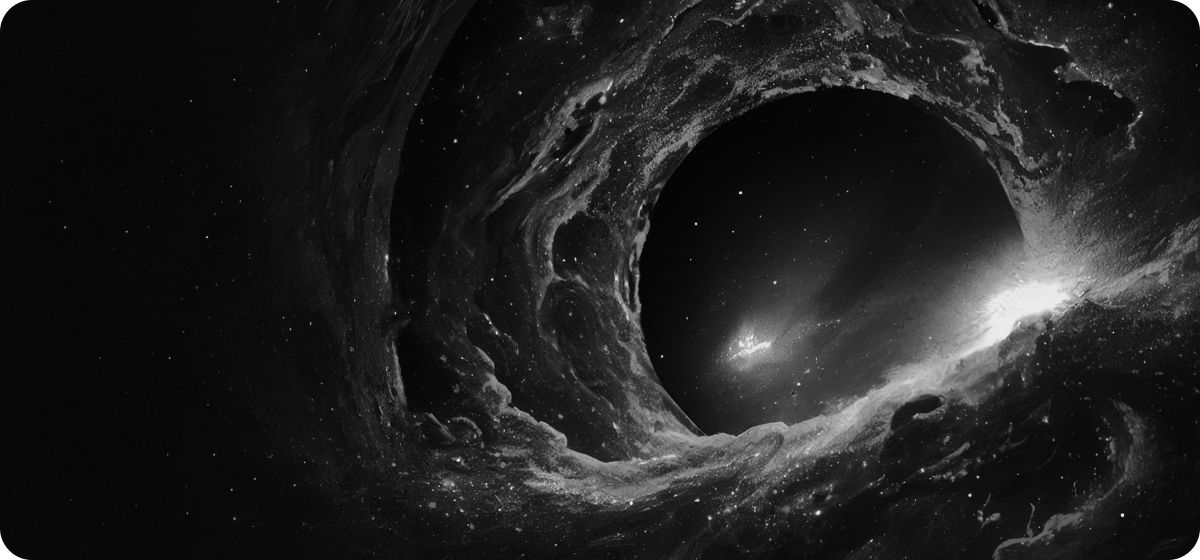
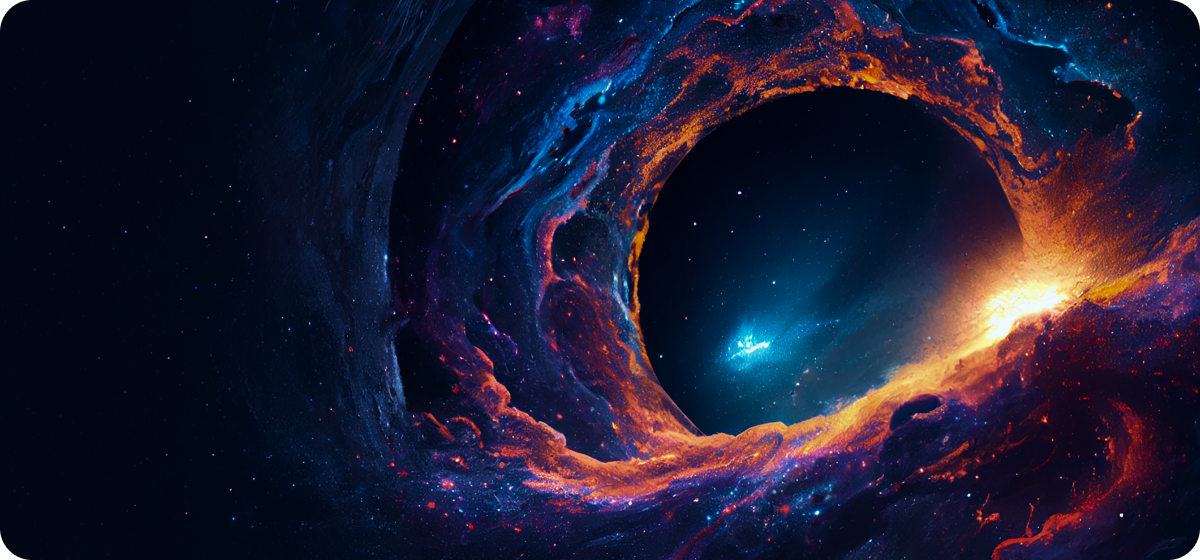
new commit

diff --git a/components/shared/HexasphereSection.tsx b/components/shared/HexasphereSection.tsx
@@ -1,73 +1,46 @@
-// import Image from "next/image";
-
-// const HexasphereSection = () => {
-//   return (
-//     <section className="min-h-screen p-4 sm:p-10 flex flex-col items-center lg:flex-row lg:justify-center gap-10 lg:gap-16">
-//       <div className="">
-//         <Image
-//           className="h-80 w-80 md:w-96 md:h-96 lg:w-96 lg:h-96 object-contain"
-//           src={"/images/hexasphere.svg"}
-//           alt="visual"
-//           width={500}
-//           height={500}
-//           loading="lazy"
-//         />
-//       </div>
-//       <div className="max-w-sm ">
-//         <h2>
-//           The <br /> Birble <br /> Hexasphere
-//         </h2>
-//         <p className="text-gray-400">
-//           Birble AI is committed to fostering the next generation of blockchain innovators. We're
-//           actively training new developers and student interns, empowering them with the skills
-//         </p>
-//       </div>
-//     </section>
-//   );
-// };
-
-// export default HexasphereSection;
-
 "use client";
+
 import React from "react";
 import { SparklesCore } from "../ui/sparkles";
 import Image from "next/image";
+import EcosystemCarousel from "./EcosystemCarousel";
 
 export default function SparklesPreview() {
   return (
-    <div className="relative p-4 sm:p-10 flex flex-col items-center lg:flex-row lg:min-h-screen lg:justify-center gap-6 lg:gap-16 ">
-      {/* <section className="min-h-screen relative w-full flex flex-col items-center justify-center overflow-hidden "> */}
-      <div className="w-full absolute inset-0 ">
+    <div className="relative p-4 sm:p-10">
+      <div className="w-full absolute inset-0 h-[75%]">
         <SparklesCore
           id="tsparticlesfullpage"
           background="transparent"
           minSize={0.6}
           maxSize={1.4}
-          particleDensity={70}
+          particleDensity={80}
           className="w-full h-full"
           particleColor="#FFFFFF"
         />
       </div>
-      <div className="">
-        <Image
-          className="h-80 w-80 md:w-96 md:h-96 lg:w-96 lg:h-96 object-contain"
-          src={"/images/hexasphere.svg"}
-          alt="visual"
-          width={500}
-          height={500}
-          loading="lazy"
-        />
+      <div className="relative flex flex-col items-center lg:flex-row lg:min-h-screen lg:justify-center gap-6 lg:gap-16">
+        <div className="">
+          <Image
+            className="h-80 w-80 md:w-96 md:h-96 lg:w-96 lg:h-96 object-contain"
+            src={"/images/hexasphere.svg"}
+            alt="visual"
+            width={500}
+            height={500}
+            loading="lazy"
+          />
+        </div>
+        <div className="max-w-sm ">
+          <h2>
+            The <br /> Birble <br /> Hexasphere
+          </h2>
+          <p className="text-gray-400">
+            Birble AI is committed to fostering the next generation of blockchain innovators. We're
+            actively training new developers and student interns, empowering them with the skills
+          </p>
+        </div>
       </div>
-      <div className="max-w-sm ">
-        <h2>
-          The <br /> Birble <br /> Hexasphere
-        </h2>
-        <p className="text-gray-400">
-          Birble AI is committed to fostering the next generation of blockchain innovators. We're
-          actively training new developers and student interns, empowering them with the skills
-        </p>
-      </div>
-      {/* </section> */}
+      <EcosystemCarousel />
     </div>
   );
 }

diff --git a/components/shared/CallToAction.tsx b/components/shared/CallToAction.tsx
@@ -9,9 +9,7 @@
 // const CallToAction = () => {
 //   const [hovered, setHovered] = useState(false);
 //   const [viewportWidth, setViewportWidth] = useState(null);
-//   useEffect(() => {
-
-//   },[])
+//   useEffect(() => {}, []);
 
 //   return (
 //     <div className="relative min-h-screen">
@@ -56,6 +54,42 @@
 // };
 
 // export default CallToAction;
+
+// "use client";
+
+// import { Button } from "../ui/button";
+
+// const CallToAction = () => {
+//   return (
+//     <div className="relative min-h-screen">
+//       {/* Absolutely positioned Div */}
+//       <div className="absolute hidden md:block left-0 bottom-1/2 transform translate-y-1/2 w-56 h-32 lg:h-40 rounded-full bg-violet-900 blur-7xl overflow-hidden z-0" />
+//       <div className="w-full h-screen px-4 py-10 sm:p-10 md:px-20 max-w-xl lg:max-w-5xl 2xl:max-w-7xl mx-auto flex flex-col justify-center">
+//         <div className="callToAction_BgImage bg-cover object-cover relative flex flex-col max-lg:justify-end lg:flex-row rounded-3xl h-full lg:h-[80%] p-3 sm:p-6 w-full z-20 ">
+//           <div className="p-4 sm:p-6 md:p-8 lg:p-10 h-1/2 w-full lg:w-1/2 lg:h-full rounded-3xl bg-purple-600 flex flex-col justify-end 2xl:justify-center">
+//             <div className="space-y-4 sm:space-y-8">
+//               <div className="space-y-2 sm:space-y-4">
+//                 <h6 className="2xl:text-2xl">
+//                   Bring your space to live with <span className="font-bold">Birble AI</span>
+//                 </h6>
+//                 <p>
+//                   Stop holding a wish sign and start unboxing that special gift, from that special
+//                   person on your special day
+//                 </p>
+//               </div>
+//               <Button className="bg-green-200 text-black capitalize medium rounded-3xl px-6">
+//                 Sign Up
+//               </Button>
+//             </div>
+//           </div>
+//         </div>
+//       </div>
+//     </div>
+//   );
+// };
+
+// export default CallToAction;
+
 "use client";
 
 import { Button } from "../ui/button";
@@ -66,7 +100,9 @@ const CallToAction = () => {
       {/* Absolutely positioned Div */}
       <div className="absolute hidden md:block left-0 bottom-1/2 transform translate-y-1/2 w-56 h-32 lg:h-40 rounded-full bg-violet-900 blur-7xl overflow-hidden z-0" />
       <div className="w-full h-screen px-4 py-10 sm:p-10 md:px-20 max-w-xl lg:max-w-5xl 2xl:max-w-7xl mx-auto flex flex-col justify-center">
-        <div className="callToAction_BgImage bg-cover object-cover relative flex flex-col max-lg:justify-end lg:flex-row rounded-3xl h-full lg:h-[80%] p-3 sm:p-6 w-full z-20 ">
+        <div className="relative group flex flex-col max-lg:justify-end lg:flex-row rounded-3xl h-full lg:h-[80%] p-3 sm:p-6 w-full z-20">
+          <div className="absolute -z-10 top-0 left-0 w-full h-full rounded-3xl inset-0 callToAction_BgImage bg-cover object-cover grayscale group-hover:grayscale-0 transition-all duration-300 ease-in-out" />
+
           <div className="p-4 sm:p-6 md:p-8 lg:p-10 h-1/2 w-full lg:w-1/2 lg:h-full rounded-3xl bg-purple-600 flex flex-col justify-end 2xl:justify-center">
             <div className="space-y-4 sm:space-y-8">
               <div className="space-y-2 sm:space-y-4">

diff --git a/components/shared/EcosystemCarousel.tsx b/components/shared/EcosystemCarousel.tsx
@@ -9,11 +9,11 @@ import {
 
 const EcosystemCarousel = () => {
   return (
-    <Carousel className="min-h-screen z-0 p-4 sm:p-10 flex flex-col justify-center">
+    <Carousel className="min-h-screen z-0 flex flex-col justify-center">
       {/* absolutely positione lef & right opacity */}
-      <div className="hidden md:block absolute top-0 left-0 z-20 h-full w-20 lg:w-24 bg-gradient-to-r from-[#0a0a29] from-10% via-[#0a0a29] via-20% to-transparent to-90%" />
-      <div className="hidden md:block absolute top-0 right-0 z-20 h-full w-20 lg:w-24 bg-gradient-to-l from-[#0a0a29] from-10% via-[#0a0a29] via-20% to-transparent to-90%" />
-      {/* absolutely postioned bgcolor */}
+      {/* <div className="hidden md:block absolute top-0 left-0 z-20 h-full w-6 lg:w-10 bg-gradient-to-r from-[#0a0a29] from-10% via-[#0a0a29] via-20% to-transparent to-90%" />
+      <div className="hidden md:block absolute top-0 right-0 z-20 h-full w-6 lg:w-10 bg-gradient-to-l from-[#0a0a29] from-10% via-[#0a0a29] via-20% to-transparent to-90%" /> */}
+
       {/* Absolutely positioned Div */}
       <div className="absolute hidden md:block right-0 bottom-0 transform -translate-y-1/4 w-72 h-36  rounded-full bg-blue-900 blur-7xl overflow-hidden z-20" />
       <div className="flex flex-col gap-6">

diff --git a/app/globals.css b/app/globals.css
@@ -180,30 +180,12 @@
 /* Default background image for screens smaller than 1024px */
 .callToAction_BgImage {
   background-image: url('../public/images/bgMid.png');
-  transition: background-image 0.3s ease-in-out; 
 }
 
 /* Background image for screens 1024px and larger */
 @media screen and (min-width: 1024px) {
   .callToAction_BgImage {
-    background-image: url('../public/images/bgLarge.png');
-    transition: background-image 0.3s ease-in-out; 
-  }
-}
-
-/* Hover effect for screens smaller than 1024px */
-.callToAction_BgImage:hover {
-  /* Change the background image when hovered */
-  background-image: url('../public/images/bgMid_hover.png');
-  transition: background-image 0.3s ease-in-out; 
-}
-
-/* Hover effect for screens 1024px and larger */
-@media screen and (min-width: 1024px) {
-  .callToAction_BgImage:hover {
-    /* Change the background image when hovered */
-    background-image: url('../public/images/bgLarge_hover.png');
-    transition: background-image 0.3s ease-in-out; 
+    background-image: url('../public/images/bgLarge.png'); 
   }
 }
 

diff --git a/app/page.tsx b/app/page.tsx
@@ -25,7 +25,7 @@ export default function Home() {
       <Header />
       <FeatureSection />
       <HexasphereSection />
-      <EcosystemCarousel />
+      {/* <EcosystemCarousel /> */}
       <CallToAction />
     </main>
   );
